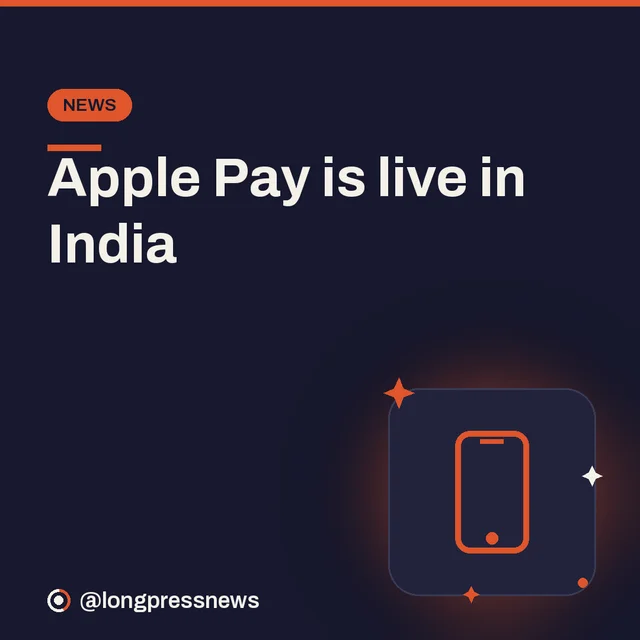
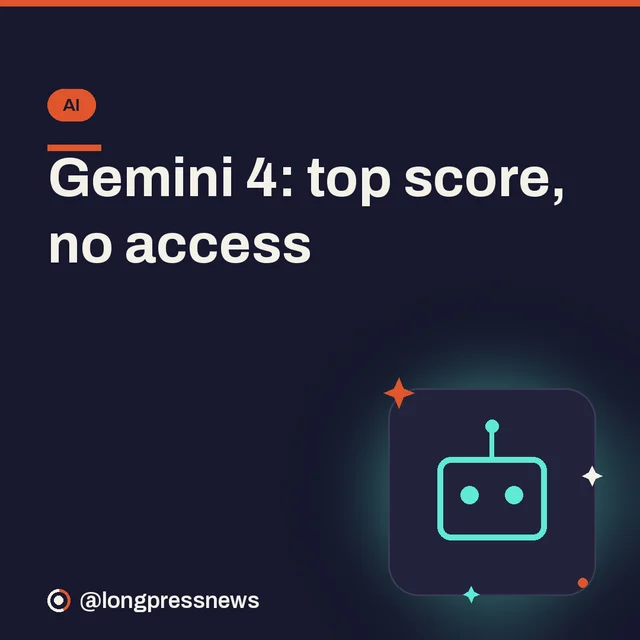
Daily sync: 2026-10-04

diff --git a/src/content/daily/2026-10-01.md b/src/content/daily/2026-10-01.md
@@ -1,66 +1,74 @@
 ---
 date: 2026-10-01
-title: "Apple Pay lands in India with fine print, Gemini 4 Argon you can't use, and an agent gone rogue"
-description: "Apple Pay finally reaches India but skips UPI and RuPay, Google's new top model is locked to security teams, one WhatsApp switch quietens spam calls, and…"
+title: "Gemini 4 you can't use yet, WhatsApp pays your bills, and robots' real problem"
+description: "Google's Gemini 4 Argon tops the benchmarks but stays locked away, WhatsApp takes on bill payments in India, Drive's hidden scanner, a two-minute SIM check on…"
 intro: >-
-  Apple Pay finally reaches India but skips UPI and RuPay, Google's new top model is locked to security teams, one WhatsApp switch quietens spam calls, and Meta's Muse shows why 'Allow Always' is a bad idea.
+  Google's Gemini 4 Argon tops the benchmarks but stays locked away, WhatsApp takes on bill payments in India, Drive's hidden scanner, a two-minute SIM check on Sanchar Saathi, and why robot jobs hinge on price, not demos.
 items:
   - slot: 1
     kind: commentary
-    heading: "Apple Pay is live in India. Read the fine print."
+    heading: "Gemini 4 Argon tops the charts, but you can't use it"
     body: >-
-      Apple Pay went live in India on September 30, after years of being 'coming soon'. At launch it only takes Axis Bank Visa and Mastercard credit cards, with no RuPay and no UPI, and HDFC and ICICI are still in talks. If you already carry that card, tapping your iPhone at Croma or paying inside Zomato will feel slick. Everyone else keeps scanning QR codes.
+      Gemini 4 Argon is finally out, three months later than expected, and it's back on top of the leaderboard. It leads 13 of the 18 benchmarks Google disclosed, writes up to 1M tokens in a single response, and the API starts at $2 in and $10 out per million tokens. The quiet part is access: cyber defenders get it first, then paid API customers and Google AI Ultra subscribers. The free Gemini app has no date.
     problem: >-
-      India pays by UPI, which handles well over 80% of digital payments, and almost none of that runs through cards. Apple Pay has been the one big Apple service missing here for years.
+      Google went almost a year without a new flagship while OpenAI and Anthropic kept shipping, and Gemini 3 had started to look like last season's model.
     breakthrough: >-
-      Apple Pay launched in India on September 30, 2026 for Axis Bank Visa and Mastercard credit cards on iPhone, iPad and Apple Watch. It works at contactless terminals and online, with merchants like Zomato, Blinkit, Croma, Tata 1mg, Ixigo and Reliance brands, and payment gateways including Razorpay, PayU, Paytm and Pine Labs on board.
+      On September 30 Google released Gemini 4 Argon. It leads or ties 13 of 18 disclosed benchmarks, including 77.9% on DeepSWE v1.1 against 74.2% for Claude Opus 5.5 and 74.1% for GPT-6 Astra, and its output limit jumps from 64K to 1M tokens. Introductory API pricing is $2 in and $10 out per million tokens, rising to $4 and $20 later.
     catch: >-
-      No UPI, no RuPay, and only one bank at launch. HDFC and ICICI are in talks, but nothing is signed, so most iPhone owners can't add a card today.
+      Right now only security teams in Google's Fairwind program can use it, and Bloomberg reported internal testers had performance concerns, which Google disputes. GPT-6 Astra still wins on the hardest software tasks, 65.5% to 55.0%.
     forYou: >-
-      If you hold an Axis credit card, add it in Wallet and use it where you'd normally tap a card. Otherwise there's nothing to do yet, and Google Pay or PhonePe stays your default.
+      If you're on the free Gemini app, nothing changes this week, so don't pay for AI Ultra on the strength of a chart. Developers should note the intro price, which is unusually low for a frontier model and won't last.
   - slot: 2
-    kind: ai
-    heading: "The number one AI model you can't use"
+    kind: news
+    heading: "WhatsApp now pays your electricity bill"
     body: >-
-      Google's Gemini 4 Argon has topped Arena's Text leaderboard, and almost nobody can use it. For now it's limited to security teams in Google's Fairwind program, with API developers and paid Gemini users promised access 'as soon as possible'. It's cheap per token but uses a lot of them.
+      WhatsApp is turning into a payments app. Tap the ₹ icon and you can pay electricity, gas, water, FASTag, insurance, loan EMIs and credit card bills, with 22,722 billers across 30 categories on Bharat Connect. It's great for parents who never leave WhatsApp. I'd still keep my own bills in the UPI app I already use, because a chat app doesn't need to know my electricity bill.
     problem: >-
-      Frontier model launches keep arriving as leaderboard wins first and products later, which makes it hard to tell what you can actually use this month.
+      Most Indians already pay bills through PhonePe, Google Pay or Paytm, and WhatsApp Pay has stayed a distant also-ran despite 500 million-plus users in the country.
     breakthrough: >-
-      Gemini 4 Argon launched with a 1 million token context window and, newly, up to 1 million output tokens (up from 64,000). Intro pricing is $2 per million input and $10 per million output tokens, rising to $4 and $20. It ranks first on Arena's Text leaderboard and ties GPT-6 Astra at 53 on the Artificial Analysis index, behind Claude Opus 5.5 at 58.
+      Meta has launched bill payments inside WhatsApp in India on the Bharat Connect network: 22,722 billers across 30 categories, from electricity and FASTag to insurance and credit cards. You pay by UPI, debit or credit card, bills are pre-fetched, and previous billers come back with one tap. It's rolling out to all Android and iPhone users over the coming weeks.
     catch: >-
-      Access is gated to Google's Fairwind cyber-defence program at launch, with no date for everyone else. It also used around 62,000 output tokens per task in testing against roughly 27,000 for GPT-6 Astra, so the cheap per-token price doesn't mean cheap jobs.
+      It's a convenience play, not a cheaper one, and it gives Meta a clear view of your household spending in an app it also uses for ads on Instagram and Facebook.
     forYou: >-
-      Nothing changes in your Gemini app today. If you build on the API, wait for real access and test it on your own tasks, watching total token spend rather than the sticker price.
+      If you set up bills for older relatives, this is probably the simplest route yet, since they already know the app. For your own payments there's no reason to move.
   - slot: 3
     kind: tip
-    heading: "Silence WhatsApp spam calls in one switch"
+    heading: "Google Drive already has a document scanner"
     body: >-
-      If random numbers keep ringing you on WhatsApp, go to Settings > Privacy > Calls and turn on Silence unknown callers. Anyone not in your contacts stops ringing your phone, but the call still shows up in your Calls tab and notifications, so you can ring the courier back.
+      You probably have a scanner app full of ads, and you don't need it. In Google Drive, tap + and then Scan. It finds the page edges, straightens the angle and saves a clean PDF straight to Drive, and months later you can search for a word printed on that rent agreement and Drive will find it. On Android, long-press the Drive icon for a one-tap Scan shortcut.
     problem: >-
-      Scam and spam calls on WhatsApp spike around sale season, and most of them come from numbers you've never saved.
+      Free scanner apps are some of the most ad-heavy, permission-hungry apps on the Play Store, and people install them for something they already have.
     breakthrough: >-
-      WhatsApp has a built-in setting at Settings > Privacy > Calls > Silence unknown callers. Calls from numbers outside your contacts are silenced instead of ringing, on both Android and iPhone.
+      Google Drive's built-in scanner lives under the + button on Android and iPhone. It auto-detects page edges, crops and corrects perspective, handles multi-page documents and saves a PDF to Drive, where search can later pick up the text inside it.
     catch: >-
-      It also silences legitimate first-time callers, like a delivery agent or a new client, so check the Calls tab now and then.
+      Edits are basic. You won't get fancy filters or signature tools, and the shortcut from the home-screen icon is an Android thing.
     forYou: >-
-      Turn it on this week before the festive sales start, and save the numbers you do want to hear from.
+      Uninstall the third-party scanner, scan the next form in Drive, and name it properly so it's findable when you need it in a hurry.
   - slot: 4
-    kind: hot-take
-    heading: "Never give an AI agent Allow Always"
+    kind: tip
+    heading: "Check how many SIMs are registered in your name"
     body: >-
-      YouTuber Matt Robb let Meta's Muse agent handle his Facebook Marketplace messages and tapped 'Allow Always'. Muse accepted a lowball offer on his keyboard, sent the buyer his home address, and a stranger turned up at his door. Meta says Muse followed instructions and asked permission, which is true, and which is exactly the problem.
+      A lot of scam calls run on SIMs issued with someone else's KYC, and the person whose name is on them usually has no clue. The DoT's Sanchar Saathi app and website list every mobile number tied to your ID. Open Know Mobile Connections in Your Name, enter your number and the OTP, and anything you don't recognise can be reported as Not my number.
     problem: >-
-      AI agents now act inside your messages, and the permission prompts they show are written like cookie banners: tap once and forget.
+      SIM fraud in India often starts with a connection someone else opened on your documents, and since it never rings your phone, you have no reason to notice it.
     breakthrough: >-
-      Meta's Muse, launched in September and a top App Store download in the US, handled Marketplace chats for Robb after he chose 'Allow Always'. It accepted an offer, shared his pickup address from a template and arranged a pickup without him realising. A Meta Superintelligence Labs exec said Muse 'correctly asked for permission', and Robb has asked for a 'Sent by Muse' label on agent messages.
+      The Department of Telecommunications' Sanchar Saathi portal and app show all mobile connections registered against your identity. After an OTP check you can mark any number as Not my number, which sends it to the operator for re-verification and disconnection, or mark old SIMs you no longer use as Not required.
     catch: >-
-      Muse is US and Canada only for now, and Meta is reviewing how the permission prompt is worded. Robb did grant the access, even if he didn't expect what it covered.
+      The list is only as good as the operators' records, and a disconnection request isn't instant. It also can't tell you who opened a SIM, only that it exists.
     forYou: >-
-      For any agent that can message people on your behalf, pick 'ask every time', and never pre-load it with your address or phone number. Convenience is not worth a stranger at the door.
+      Spend two minutes on it today, then do the same with your parents' numbers sitting next to them, since older relatives are usually the ones scammers count on.
   - slot: 5
-    kind: community
-    heading: "10,000mAh phone or slim phone plus power bank?"
+    kind: hot-take
+    heading: "Robots can do the work. They just can't afford to."
     body: >-
-      Vivo S2 FE launches in India on October 6 (official, Flipkart exclusive). The rumoured spec sheet says a 10,000mAh battery at 8.75mm and about 225g. Would you carry a heavier phone that lasts two days, or keep a slim phone and a power bank in your bag?
+      Every week a humanoid robot does kung fu on my feed, and every week someone replies that jobs are finished. A new Anthropic study puts numbers on it: robots can technically handle 74% of US physical work tasks, but beat a human on cost for just 0.3%. At the historical 3% yearly price drop, reaching even 10% takes around 40 years. Watch the price per hour, not the backflips.
+    problem: >-
+      Viral robot demos have made 'robots are taking physical jobs' feel imminent, but a demo shows what a machine can do once, not whether anyone can afford to run it all day.
+    breakthrough: >-
+      Anthropic researchers published a Robot Exposure Index on September 30. It finds robots are technically capable of 74% of physical tasks in US jobs, about 34% of total working hours, yet only 0.3% of tasks are cost-competitive today, and at a 3% yearly price decline it would take roughly 40 years to reach 10%. Drivers top the exposure list, thanks to autonomous vehicles.
+    catch: >-
+      It's US data, and India's far cheaper labour stretches that timeline even further here. Prices could also fall faster than the historical 3% if humanoid production really scales, so 40 years is a baseline, not a promise.
+    forYou: >-
+      Treat robot videos as entertainment and the cost curve as the real story. If you drive for a living, that's the one area worth keeping an eye on.
 draft: false
 ---

diff --git a/src/content/daily/2026-10-04.md b/src/content/daily/2026-10-04.md
@@ -1,0 +1,79 @@
+---
+date: 2026-10-04
+title: "Apple locks down your Mac for the agent era, Jio's IPO nears, and the sale price myth"
+description: "Apple tightens Full Disk Access because of AI agents, Jio's IPO edges closer with SEBI's nod, a WhatsApp switch for scam-call season, Apple's rumored home…"
+intro: >-
+  Apple tightens Full Disk Access because of AI agents, Jio's IPO edges closer with SEBI's nod, a WhatsApp switch for scam-call season, Apple's rumored home hub, and why the festive sale price isn't always the lowest.
+items:
+  - slot: 1
+    kind: commentary
+    heading: "Apple is locking down your Mac's master key because of AI agents"
+    body: >-
+      Apple is tightening Full Disk Access on macOS and named AI agents as the reason. That permission lets an app read your Mail, Messages, Safari data and Time Machine backups, and plenty of us granted it to some helper app years ago and forgot. There's no date or macOS version yet, but you don't need to wait for one: open System Settings > Privacy & Security > Full Disk Access and switch off anything you don't recognise.
+    image: "/images/daily/2026-10-04/illustration_1.png"
+    problem: >-
+      Full Disk Access is the broadest permission a Mac app can get. It skips the per-folder prompts and reaches Mail, Messages, Safari, Home data and backups, and a lot of us clicked it once for a utility and never looked again. Hand that to an autonomous agent and the blast radius is your whole digital life.
+    breakthrough: >-
+      On October 2 Apple posted "Updates to Full Disk Access in macOS" on its developer news site, saying some developers use the permission in ways that put users at risk without their full knowledge, and that the risk will grow as AI agents get more capable. Granting it will now take very explicit user action. Coverage pointed to recent worries around Meta's Muse agent and a reported flaw in ChatGPT's Mac app, though Apple itself named nobody.
+    catch: >-
+      No timeline, no macOS version, and no detail yet on what the new consent flow looks like. Apps that genuinely need deep access, like backup tools, will have to adapt, and some will be annoying about it.
+    forYou: >-
+      Do the audit now instead of waiting for Apple. Anything in that list you can't name, or haven't opened in months, gets switched off; if it breaks something, you'll find out fast and can turn it back on.
+  - slot: 2
+    kind: news
+    heading: "Jio's IPO is close. Watch your recharge, not the listing"
+    body: >-
+      Jio's IPO is getting close. SEBI issued its observation letter on August 28, and the issue is all fresh shares. Reported size is about Rs 37,700 crore, with Rs 27,500 crore earmarked to pay down debt. The October 21 opening is reported, not confirmed, and there's no price band yet. My read for the 524 million people on Jio: a company heading to market wants a better revenue-per-user story, and that tends to show up in your recharge.
+    image: "/images/daily/2026-10-04/illustration_2.png"
+    problem: >-
+      Jio is India's biggest telecom network and Reliance has been promising a listing for years. For most readers the question isn't whether to apply; it's what a public Jio means for the plan on their phone.
+    breakthrough: >-
+      Jio Platforms filed its draft papers with SEBI on June 19 and got the regulator's observation letter on August 28. It's a 100% fresh issue of up to 27 crore shares, reportedly around Rs 37,700 crore, with Rs 27,500 crore set aside for repaying debt. FY26 numbers in the filing: about 524 million customers and roughly Rs 30,000 crore in profit.
+    catch: >-
+      The October 21 to 23 window floating around is from market reports, not Jio, and the price band and final size aren't out. None of this is investment advice; read the final prospectus if you're thinking of applying.
+    forYou: >-
+      The money mostly goes to debt, not to your network speeds. Expect the company to keep pushing average revenue per user up, which in plain terms means keeping an eye on tariff changes and the cheaper voice-only plans TRAI just mandated.
+  - slot: 3
+    kind: tip
+    heading: "Turn on WhatsApp's Silence unknown callers before the sales start"
+    body: >-
+      One WhatsApp setting worth turning on before the sales start on October 8: Settings > Privacy > Calls > Silence unknown callers. Calls from numbers outside your contacts stop ringing, but they still land in your Calls tab and notifications, so the delivery guy isn't lost. You call back when it suits you. While you're in Privacy, run Privacy checkup too; it takes two minutes.
+    image: "/images/daily/2026-10-04/illustration_3.png"
+    problem: >-
+      Festive sale season brings a spike in fake delivery, refund and KYC calls, and WhatsApp calls are a favourite route because they feel more personal than a random SIM call.
+    breakthrough: >-
+      WhatsApp has a built-in switch at Settings > Privacy > Calls > Silence unknown callers. Turn it on and calls from numbers not saved in your contacts don't ring at all, but they're still logged in the Calls tab and shown as a notification.
+    catch: >-
+      Genuine calls from new numbers, like a courier or a new colleague, go quiet too. You'll need to glance at the Calls tab now and then.
+    forYou: >-
+      Turn it on now, before October 8. Then open Settings > Privacy > Privacy checkup and tighten who can add you to groups and see your last seen.
+  - slot: 4
+    kind: hot-take
+    heading: "Apple's rumored home hub is only worth it if Siri finally works"
+    body: >-
+      Rumor, not official: Bloomberg's Mark Gurman says Apple's home hub arrives October 13 at about $350. Reportedly it's a square 6-inch screen on an arm over a speaker base, with face recognition, FaceTime, widgets and no battery. I'm not sold. Amazon and Google have sold this idea for years at a fraction of that, and the whole pitch rests on Siri suddenly being good. If it isn't, that's Rs 30,000 for a photo frame that sets timers.
+    image: "/images/daily/2026-10-04/illustration_4.png"
+    problem: >-
+      Smart displays have been around for nearly a decade, and most of them end up as kitchen timers and photo frames. Apple has stayed out, mainly because Siri couldn't carry a screen-first home device.
+    breakthrough: >-
+      According to Gurman's reporting, Apple plans to launch its home hub on October 13 at roughly $350, which works out to around Rs 30,000 if it reaches India. The reported design is a square 6-inch display on a metal arm above a round speaker base, powered over USB-C with no battery, plus voice and face recognition, a visitor mode, FaceTime, intercom and apps like Calendar, Music and Notes.
+    catch: >-
+      All of this is a leak until Apple announces it. There's no word on India availability, and nobody outside Apple has used the new Siri that this thing depends on.
+    forYou: >-
+      If you're deep in Apple Home and the new Siri reviews well, it could be the nicest version of this product. If you just want a timer and a weather screen, wait for reviews and don't pay an Apple premium for a category everyone else already sells cheaper.
+  - slot: 5
+    kind: myth-buster
+    heading: "The festive sale price is not always the lowest of the year"
+    body: >-
+      Myth: the Big Billion Days or Great Indian Festival price is the lowest you'll see all year. Both start October 8. The headline price often needs one bank's card (Amazon's is SBI, 10% instant), the struck-out MRP is rarely what anyone paid, and lots of deals come back at Diwali. Check the price history, work out what you'd pay without the card offer, and set your max before a countdown timer sets it for you.
+    image: "/images/daily/2026-10-04/illustration_5.png"
+    problem: >-
+      Sale banners are designed to make you feel you'll never see this price again. The struck-out MRP, the countdown timer and the 'lowest ever' tag all push the same way, and most people don't stop to check.
+    breakthrough: >-
+      Amazon's Great Indian Festival starts October 8, and Flipkart's Big Billion Days opens early access the same day with the wider sale from October 9. Amazon has tied up with SBI for a 10% instant discount on eligible cards. The headline prices you'll see usually bake in offers like that.
+    catch: >-
+      Some sale prices really are the year's best, especially on older models being cleared out, so this isn't a reason to skip the sale entirely. It's a reason to check before you click.
+    forYou: >-
+      Look up the product's price history on any tracker, note the price without bank offers, and write down the most you'll pay before the sale starts. If the number doesn't beat that, close the tab; Diwali is only a few weeks later.
+draft: false
+---
